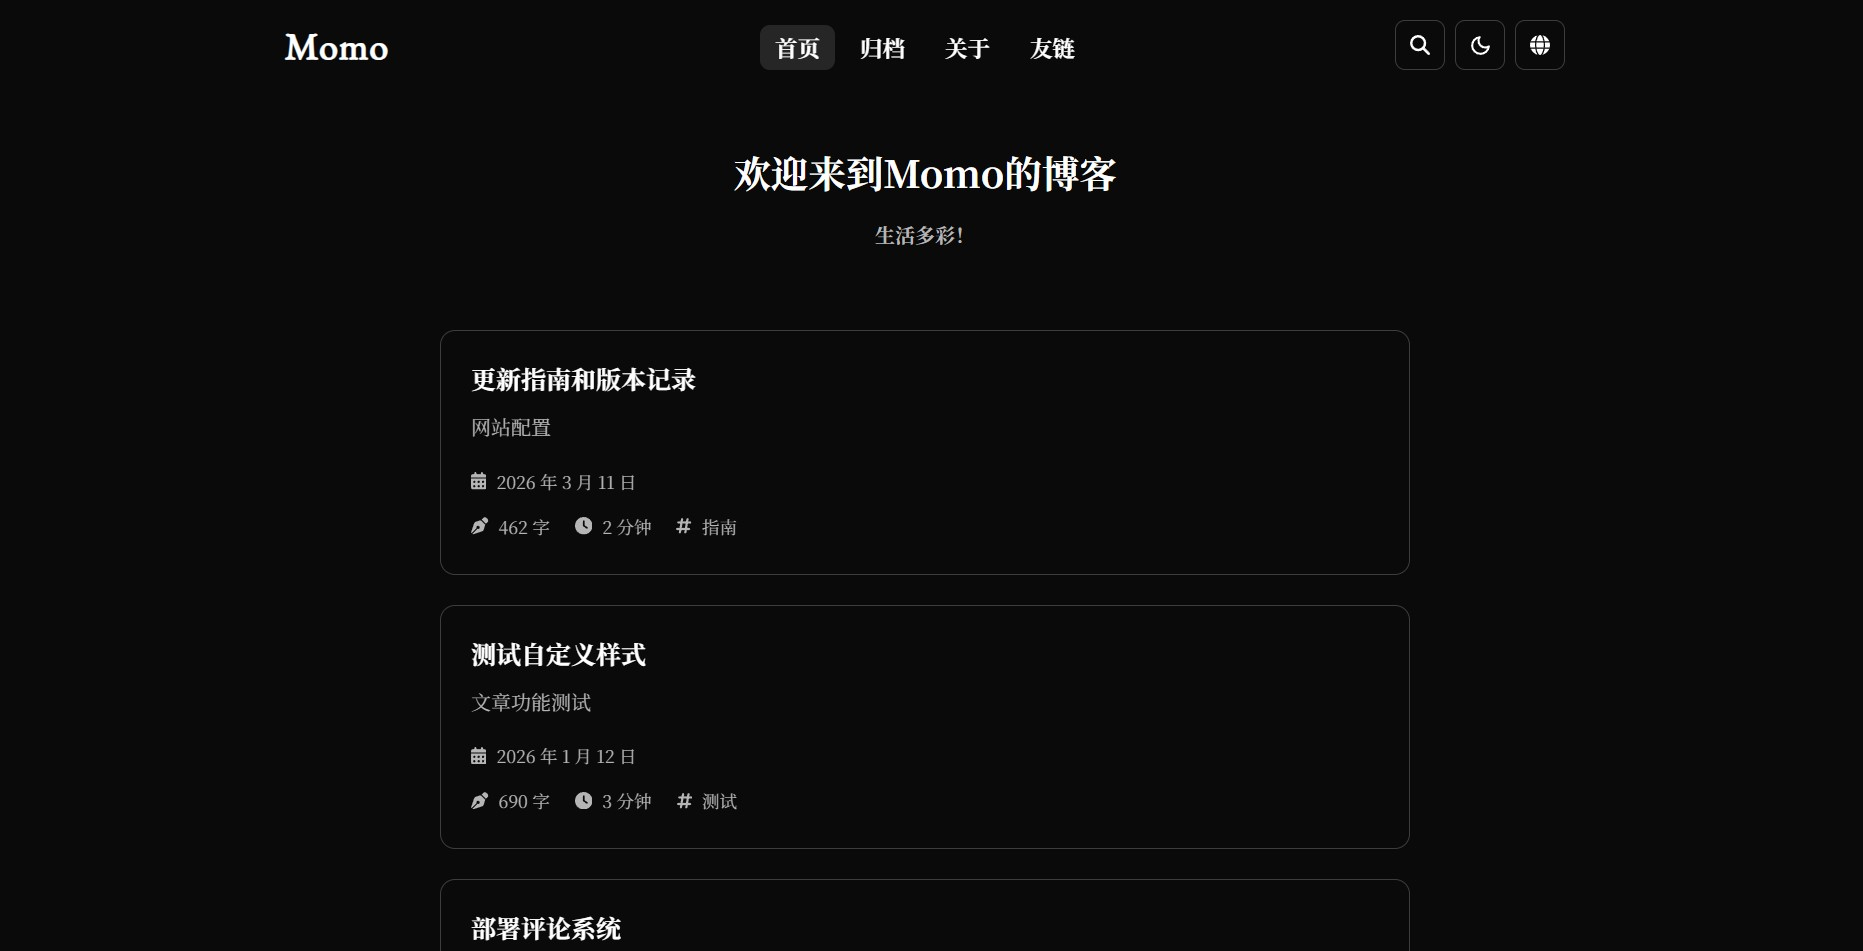
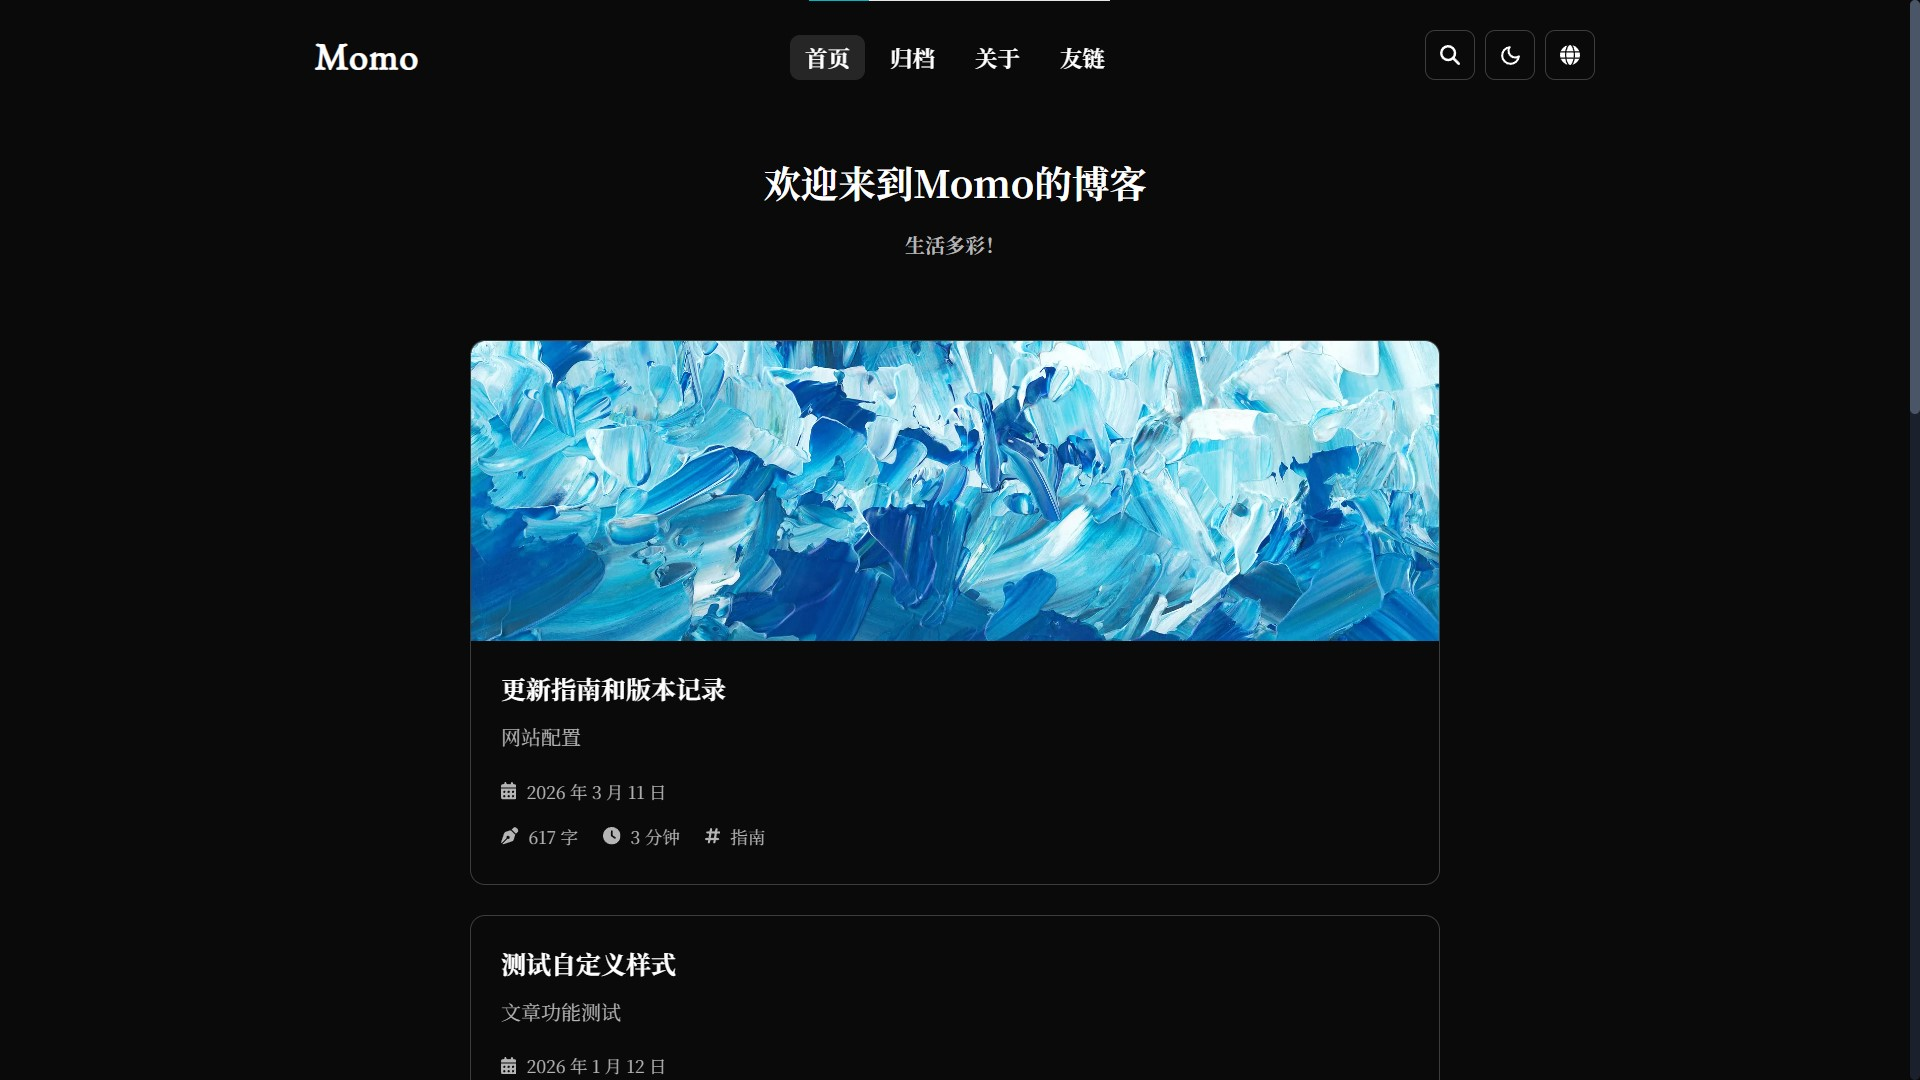
feat: 支持外部图片封面
- 实现对外部图片链接作为文章封面的支持
- 优化了Markdown组件中的图片预览功能
- 更新文档

diff --git a/src/utils/url-utils.ts b/src/utils/url-utils.ts
@@ -23,6 +23,10 @@ export function blogCoverUrl(contentPath: string, blogName: string): string {
 
     if (!contentPath) return '';
     
+    if (contentPath.startsWith('http')) {
+        return contentPath;
+    }
+
     // 处理相对路径 ./ 开头的情况
     if (contentPath.startsWith('./')) {
         contentPath = contentPath.substring(2);

diff --git a/doc/README_en.md b/doc/README_en.md
@@ -17,6 +17,7 @@ Momo originates from Xiaohongshu📕, serving as the default nickname for every 
 * **Internationalization (i18n)**: Supports multilingual switching, currently available in Simplified Chinese and English
 * **Mobile Adaptation**: Components optimized for mobile devices, delivering the same experience as desktop browsers
 * **Commenting**: Supports local deployment and Cloudflare deployment. See [Backend](https://github.com/Motues/Momo-Backend) for details
+* **Extensive Markdown syntax**: Supports Katex, Typst, and Alert components, GitHub cards, custom syntax, and more
 * Other core features: Article categories, directory, RSS subscription, text statistics, reading time
 
 ## 🚀 Quick Start

diff --git a/src/content/blog/intro/publish-blog/zh-cn.md b/src/content/blog/intro/publish-blog/zh-cn.md
@@ -44,7 +44,7 @@ slugId: intro/publish
 | `pubDate` | 发布时间，格式为 `YYYY-MM-DD` |
 | `description` | 文章描述 |
 | `category` | 分类，不填时，默认为`未分类` |
-| `image` | 封面图片，使用相对路径，相对于当前文件，比如`./images/cover.png` |
+| `image` | 封面图片，支持本地图片和外部图片；如果是本地图片，请使用对路径，相对于当前文件，比如`./images/cover.png` |
 | `draft` | 是否草稿，当文章处于草稿状态，发布的时候将不会显示在博客主页 |
 | `slugId` | 文章的ID，用于生成路由，每篇文章必须是唯一的，建议使用文章路径，比如`intro/publish` |
 
